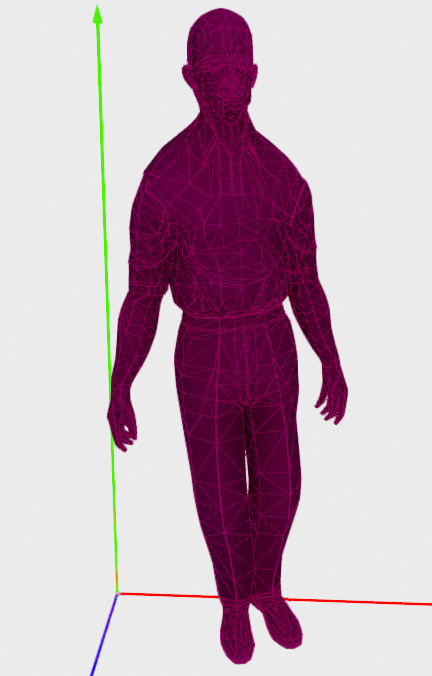
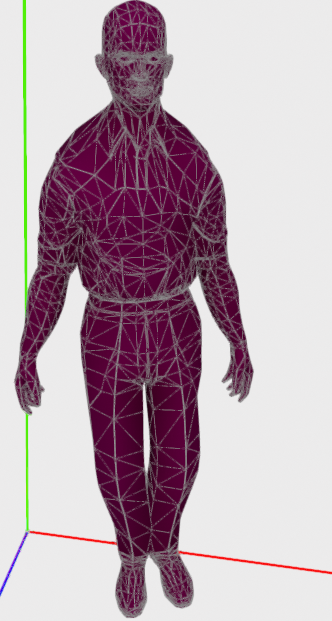
Bug fix with shape.py
Accidentally deleted a function.

diff --git a/shape.py b/shape.py
@@ -258,3 +258,78 @@ class Shape:
         shape.vertex_count = data['vertex_count']
         
         return shape
+    
+def load_database(path: str = None) -> None:
+    '''Loads a database from a csv file, or creates a blank one if a path is omitted
+    Args:
+        path (str, optional): The path to load. Create a blank database if None. Defaults to None.
+    '''
+    global database
+
+    if path is None:
+        database = dict()
+        return
+
+    if not exists(path) or basename(path)[-4:] != '.csv':
+        log.warning('Provided path "%s" does not exist or is not a csv file. Using a blank dictionary instead', path)
+        database = dict()
+        return
+
+    keys = ['aabb_max', 'aabb_min', 'face_count', 'label', 'loads', 'path', 'vertex_count']
+    database = dict()
+
+    with open(path, 'r') as f:
+        line = None
+
+        while line != '':
+            line = f.readline()
+            entry_size = len(keys) + 1
+            line_index = 0
+            split_line = line.split(',')
+            name = None
+
+            for word in split_line:
+                key_index = line_index % entry_size - 1
+                line_index += 1
+                word = word.strip()
+
+                # New database entry
+                if key_index < 0:
+                    name = word
+
+                    if name in database:
+                        log.warning('Name "%s" occurs multiple times, ignoring second occurence!', name)
+                        name = None
+                        continue
+
+                    if name == '':
+                        name = None
+                        continue
+
+                    database[name] = dict()
+                    continue
+
+                # Ignore data if name is not set (for duplicate names)
+                if name is None or name == '':
+                    continue
+
+                # Add data to database entry
+                key = keys[key_index]
+
+                # Preserve Nones
+                if word == '_none':
+                    database[name][key] = None
+                    continue
+
+                # Make sure the value is typecast correctly
+                if key in ['face_count', 'vertex_count']:
+                    database[name][key] = int(word)
+                elif key in ['loads']:
+                    database[name][key] = bool(word)
+                elif key in ['aabb_max', 'aabb_min']: # Special case, bounding box load numpy array
+                    coords = word.split(' ')
+                    database[name][key] = array(coords, dtype=float64)
+                else:
+                    database[name][key] = word
+
+    log.debug('Loaded %d database entries', len(database))

diff --git a/window.py b/window.py
@@ -74,16 +74,20 @@ class MainWindow():
         self.shape.mesh.compute_vertex_normals()
 
         #Define Mesh Material
-        material = rendering.Material()
-        material.base_color = [1,0,0.5,1]
-        material.shader = 'defaultLit'
+        material_mesh = rendering.Material()
+        material_mesh.base_color = [1,0,0.5,1]
+        material_mesh.shader = 'defaultLit'
 
         #Wireframe
         wireframe = geometry.LineSet.create_from_triangle_mesh(self.shape.mesh)
+
+        material_wf = rendering.Material()
+        material_wf.base_color = [1,1,1,1]
+        material_wf.shader = 'defaultLit'
         
         #Add models to the scene
-        self._scene_3d.scene.add_geometry('main_geometry', self.shape.mesh, material)
-        self._scene_3d.scene.add_geometry('wireframe', wireframe ,material)
+        self._scene_3d.scene.add_geometry('main_geometry', self.shape.mesh, material_mesh)
+        self._scene_3d.scene.add_geometry('wireframe', wireframe ,material_wf)
 
     def load_databases(self, filepath: str = None) -> None:
         if filepath is not None:
